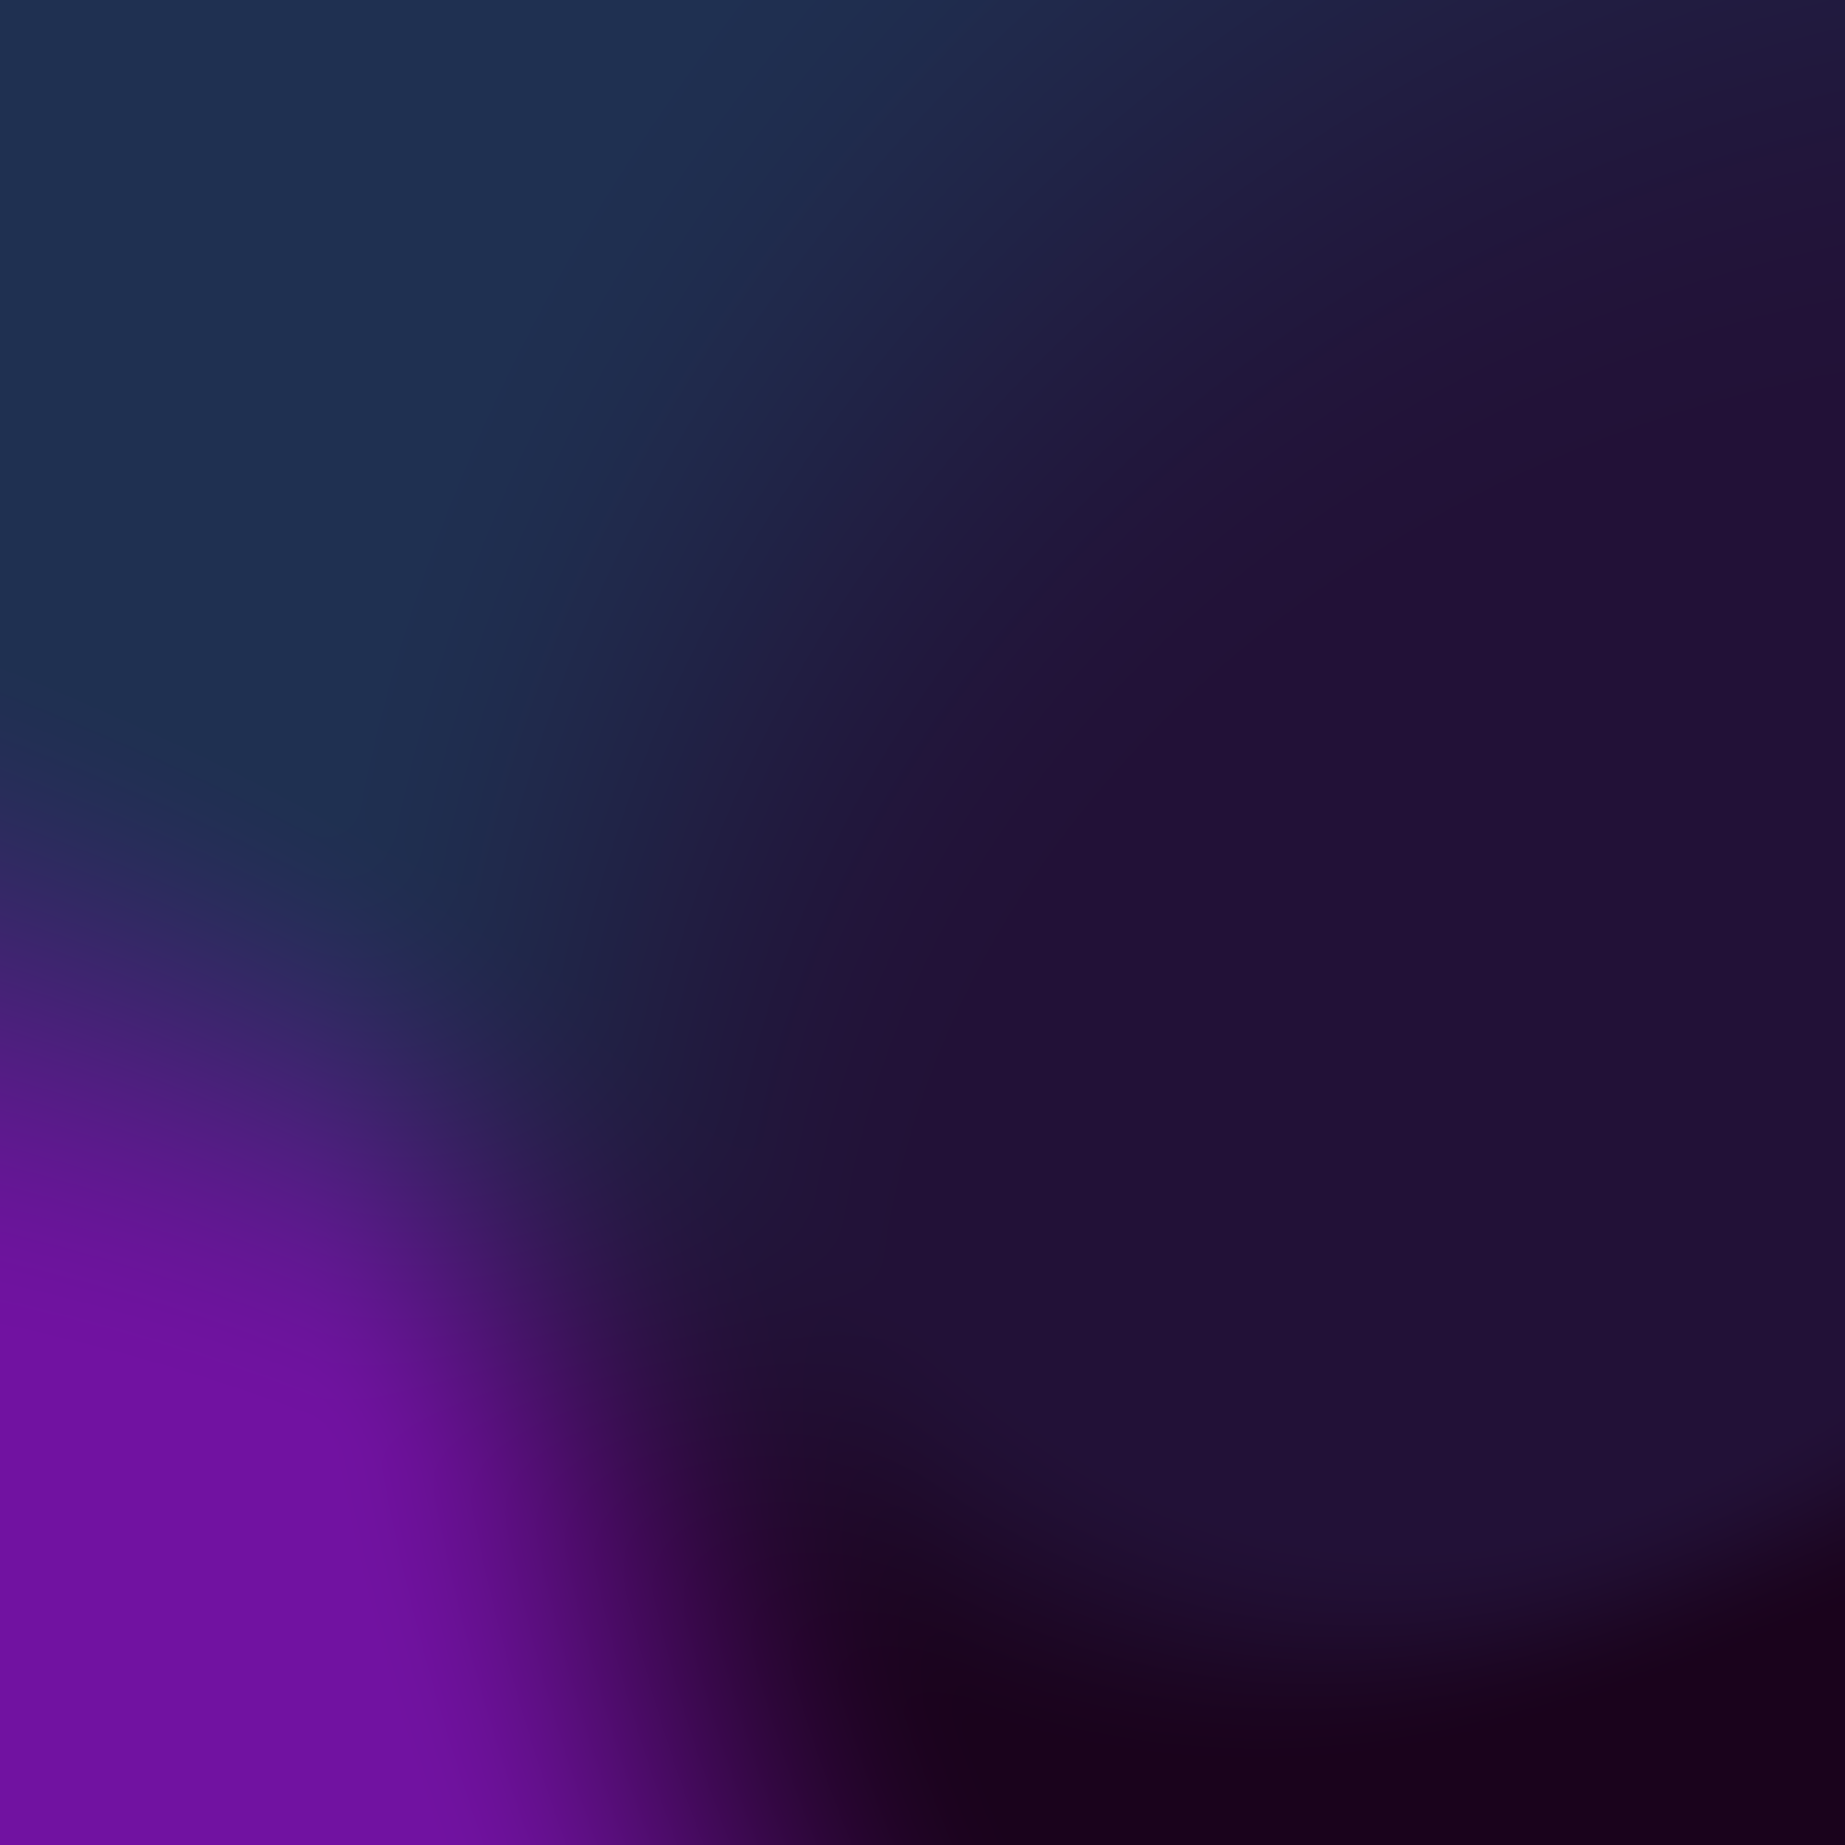
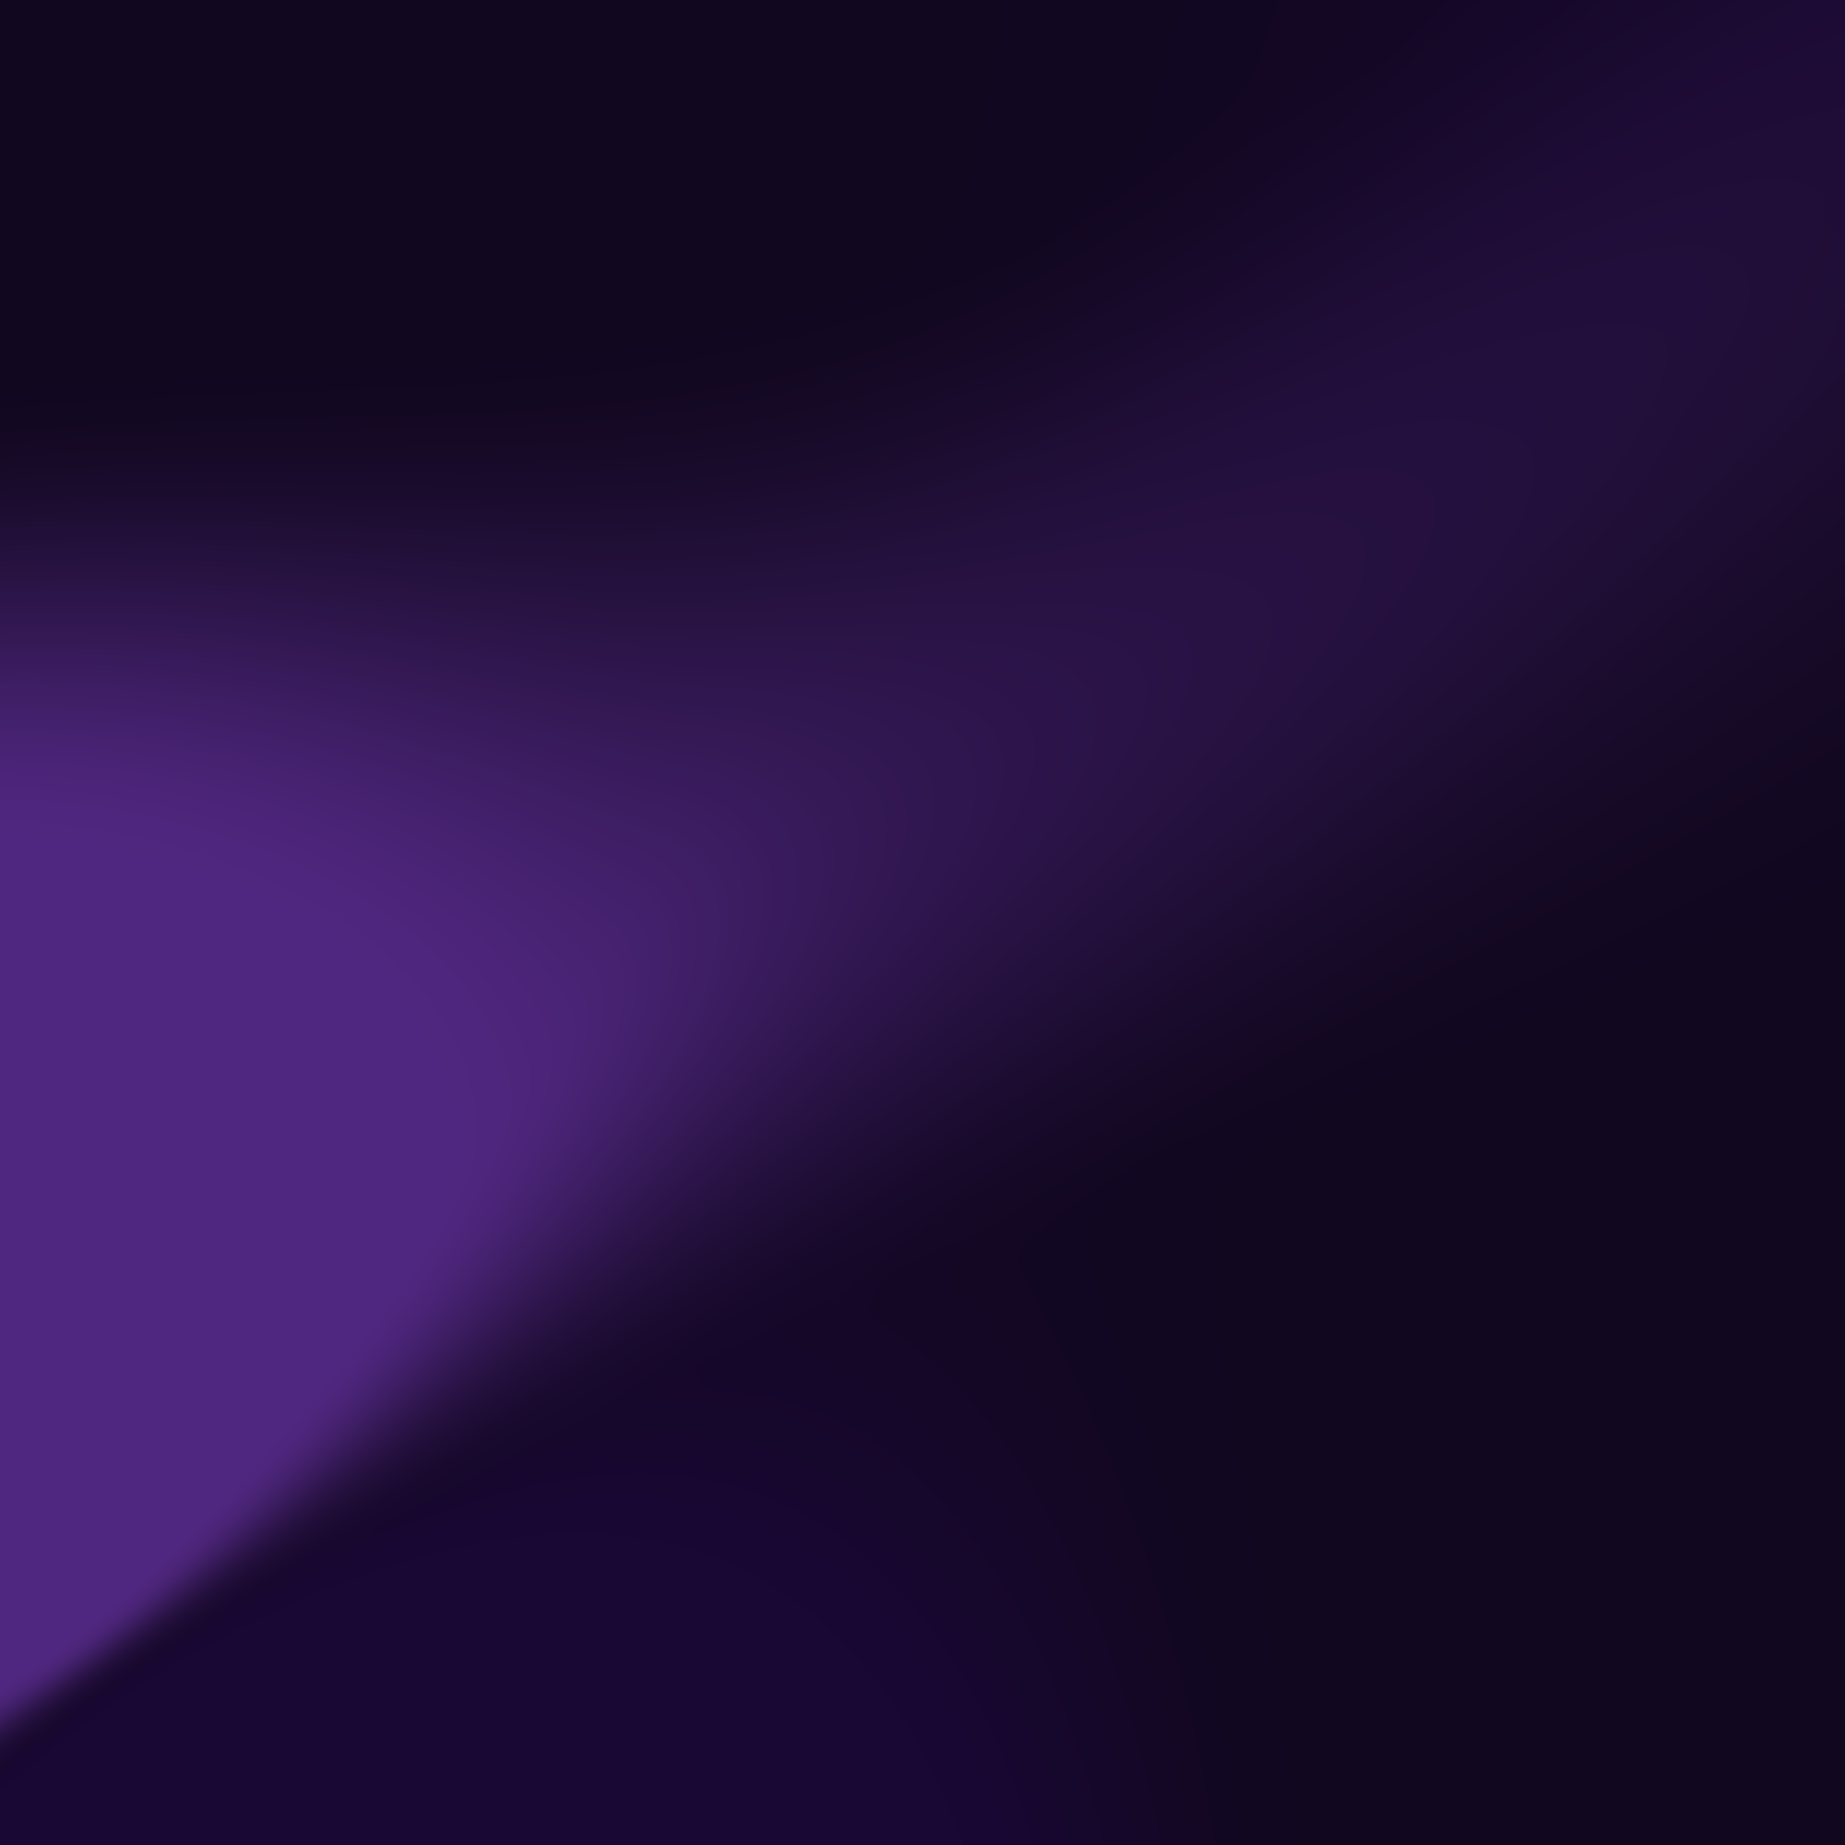
rm

diff --git a/scss/section2.scss b/scss/section2.scss
@@ -4,8 +4,8 @@
 
     display: flex;
     justify-content: center;
-    background: radial-gradient(20% 50% at center, #763CAC 0%, rgba(50, 15, 133, 0) 100%) , 
-    center center/auto 50% no-repeat;
+    
+
 
     .container_div_exp
     {
@@ -13,45 +13,108 @@
         width: 80%;
         color: white;
         font-family: Preahvihear;
+        
 
-        .exp_div_container
+
+        .main_container
         {
-            display: grid;
-            grid-template-columns: auto auto;
-            
-            .exp_div_div1
-            {
-                border-radius: 15px;
-                height: 168.06px;
-                margin: 0.5vw 1vw;
-            
-            }
 
-            .div_1
-            {
-                background: radial-gradient(ellipse at 125% 125%,#502780, #11071F);
-                box-shadow: -20px 5px 1px rgba(0, 0, 0, 0.9);
-            }
-            .div_2 
-            {
-                background: radial-gradient(ellipse at 0% 125%,#502780, #11071F);
-                box-shadow: 20px 5px 1px rgba(0, 0, 0, 0.9);
+            background: radial-gradient(10% 35% at center, #763CAC 0%, rgba(50, 15, 133, 0) 100%) , 
+            center center/auto 50% no-repeat;
 
-            }
-
-            .div_3
+        
+                .exp_div_container
             {
-                background: radial-gradient(ellipse at 125% 0%,#502780, #11071F);
-                box-shadow: -20px 5px 1px rgba(0, 0, 0, 0.9);
-            }
 
-            .div_4
-            {
-                background: radial-gradient(ellipse at 0% 0%,#502780, #11071F);
-                box-shadow: 20px 5px 1px rgba(0, 0, 0, 0.9);
-            }
-    }
+                display: grid;
+                grid-template-columns:1fr 1fr;
 
+                .bg_fordiv
+                {
+                    background-color:hsla(265,63%,7%,1);
+                }
+                
+                .exp_div_div1
+                {
+                    border-radius: 15px;
+                    height: 168.06px;
+                    margin: 1vw 1vw;
+                    display: flex;
+                    justify-content: center;
+                    align-items: center;
+                    
+
+                    p
+                    {
+                        
+                        font-size: 0.7rem;
+
+                    }
+
+                    div 
+                    {
+                        display: inline-block;
+                        margin-left: 3%;
+                    }
+                    button
+                    {
+                        background-color: #2C1250;
+                        border: none;
+                        height: 1.5rem;
+                        border-radius: 1rem;
+                        
+                        a 
+                        {
+                            text-decoration: none;
+                            color: white;
+                            font-family: Preahvihear;
+                        }
+                    }
+                
+                }
+
+                .div_1
+                {
+                    background-image:
+                    radial-gradient(at 0% 0%, hsla(254,48%,25%,0.69) 0px, transparent 50%),
+                    radial-gradient(at 100% 100%, hsla(266,53%,32%,1) 0px, transparent 50%),
+                    radial-gradient(at 100% 40%, hsla(266,53%,32%,0.35) 0px, transparent 50%);
+                    @extend .bg_fordiv ;
+                }
+                .div_2 
+                {
+                    background-image:
+                    radial-gradient(at 100% 0%, hsla(254,48%,25%,0.69) 0px, transparent 50%),
+                    radial-gradient(at 0% 100%, hsla(266,53%,32%,1) 0px, transparent 50%),
+                    radial-gradient(at 0% 35%, hsla(266,53%,32%,0.35) 0px, transparent 50%);
+                    @extend .bg_fordiv ;
+                }
+
+                .div_3
+                {
+                    background-image:
+                    radial-gradient(at 0% 98%, hsla(254,48%,25%,0.69) 0px, transparent 50%),
+                    radial-gradient(at 99% 0%, hsla(266,53%,32%,1) 0px, transparent 50%),
+                    radial-gradient(at 100% 59%, hsla(266,53%,32%,0.35) 0px, transparent 50%);
+                    @extend .bg_fordiv ;
+                }
+
+                .div_4
+                {
+                    background-color:hsla(265,63%,7%,1);
+                    background-image:
+                    radial-gradient(at 100% 100%, hsla(254,48%,25%,0.69) 0px, transparent 50%),
+                    radial-gradient(at 0% 1%, hsla(266,53%,32%,1) 0px, transparent 50%),
+                    radial-gradient(at 0% 65%, hsla(266,53%,32%,0.35) 0px, transparent 50%);
+                    @extend .bg_fordiv ;
+                }
+        }
+
+
+        }
+
+        
+        
 }
   
   

diff --git a/scss/section2.css b/scss/section2.css
@@ -1,35 +1,58 @@
 .exp_section {
   display: flex;
   justify-content: center;
-  background: radial-gradient(20% 50% at center, #763CAC 0%, rgba(50, 15, 133, 0) 100%), center center/auto 50% no-repeat;
 }
 .exp_section .container_div_exp {
   width: 80%;
   color: white;
   font-family: Preahvihear;
 }
-.exp_section .container_div_exp .exp_div_container {
-  display: grid;
-  grid-template-columns: auto auto;
+.exp_section .container_div_exp .main_container {
+  background: radial-gradient(10% 35% at center, #763CAC 0%, rgba(50, 15, 133, 0) 100%), center center/auto 50% no-repeat;
 }
-.exp_section .container_div_exp .exp_div_container .exp_div_div1 {
+.exp_section .container_div_exp .main_container .exp_div_container {
+  display: grid;
+  grid-template-columns: 1fr 1fr;
+}
+.exp_section .container_div_exp .main_container .exp_div_container .bg_fordiv, .exp_section .container_div_exp .main_container .exp_div_container .div_4, .exp_section .container_div_exp .main_container .exp_div_container .div_3, .exp_section .container_div_exp .main_container .exp_div_container .div_2, .exp_section .container_div_exp .main_container .exp_div_container .div_1 {
+  background-color: hsl(265, 63%, 7%);
+}
+.exp_section .container_div_exp .main_container .exp_div_container .exp_div_div1 {
   border-radius: 15px;
   height: 168.06px;
-  margin: 0.5vw 1vw;
+  margin: 1vw 1vw;
+  display: flex;
+  justify-content: center;
+  align-items: center;
 }
-.exp_section .container_div_exp .exp_div_container .div_1 {
-  background: radial-gradient(ellipse at 125% 125%, #502780, #11071F);
-  box-shadow: -20px 5px 1px rgba(0, 0, 0, 0.9);
+.exp_section .container_div_exp .main_container .exp_div_container .exp_div_div1 p {
+  font-size: 0.7rem;
 }
-.exp_section .container_div_exp .exp_div_container .div_2 {
-  background: radial-gradient(ellipse at 0% 125%, #502780, #11071F);
-  box-shadow: 20px 5px 1px rgba(0, 0, 0, 0.9);
+.exp_section .container_div_exp .main_container .exp_div_container .exp_div_div1 div {
+  display: inline-block;
+  margin-left: 3%;
 }
-.exp_section .container_div_exp .exp_div_container .div_3 {
-  background: radial-gradient(ellipse at 125% 0%, #502780, #11071F);
-  box-shadow: -20px 5px 1px rgba(0, 0, 0, 0.9);
+.exp_section .container_div_exp .main_container .exp_div_container .exp_div_div1 button {
+  background-color: #2C1250;
+  border: none;
+  height: 1.5rem;
+  border-radius: 1rem;
 }
-.exp_section .container_div_exp .exp_div_container .div_4 {
-  background: radial-gradient(ellipse at 0% 0%, #502780, #11071F);
-  box-shadow: 20px 5px 1px rgba(0, 0, 0, 0.9);
+.exp_section .container_div_exp .main_container .exp_div_container .exp_div_div1 button a {
+  text-decoration: none;
+  color: white;
+  font-family: Preahvihear;
+}
+.exp_section .container_div_exp .main_container .exp_div_container .div_1 {
+  background-image: radial-gradient(at 0% 0%, hsla(254, 48%, 25%, 0.69) 0px, transparent 50%), radial-gradient(at 100% 100%, hsl(266, 53%, 32%) 0px, transparent 50%), radial-gradient(at 100% 40%, hsla(266, 53%, 32%, 0.35) 0px, transparent 50%);
+}
+.exp_section .container_div_exp .main_container .exp_div_container .div_2 {
+  background-image: radial-gradient(at 100% 0%, hsla(254, 48%, 25%, 0.69) 0px, transparent 50%), radial-gradient(at 0% 100%, hsl(266, 53%, 32%) 0px, transparent 50%), radial-gradient(at 0% 35%, hsla(266, 53%, 32%, 0.35) 0px, transparent 50%);
+}
+.exp_section .container_div_exp .main_container .exp_div_container .div_3 {
+  background-image: radial-gradient(at 0% 98%, hsla(254, 48%, 25%, 0.69) 0px, transparent 50%), radial-gradient(at 99% 0%, hsl(266, 53%, 32%) 0px, transparent 50%), radial-gradient(at 100% 59%, hsla(266, 53%, 32%, 0.35) 0px, transparent 50%);
+}
+.exp_section .container_div_exp .main_container .exp_div_container .div_4 {
+  background-color: hsl(265, 63%, 7%);
+  background-image: radial-gradient(at 100% 100%, hsla(254, 48%, 25%, 0.69) 0px, transparent 50%), radial-gradient(at 0% 1%, hsl(266, 53%, 32%) 0px, transparent 50%), radial-gradient(at 0% 65%, hsla(266, 53%, 32%, 0.35) 0px, transparent 50%);
 }/*# sourceMappingURL=section2.css.map */

diff --git a/components/section2.html b/components/section2.html
@@ -2,13 +2,43 @@
 
     <div class="container_div_exp">
         <h1>Work Experience</h1>
-        <div class="exp_div_container">
-            <div class="exp_div_div1 div_1">1</div>
-            <div class="exp_div_div1 div_2">2</div>
-        </div>
-        <div class="exp_div_container" >
-            <div class="exp_div_div1 div_3">3</div>
-            <div class="exp_div_div1 div_4">4</div>
+        <div class="main_container">
+            <div class="exp_div_container">
+                <div class="exp_div_div1 div_1">
+                    <img src="../imgs/Rectangle.png" alt="">
+                    <div>
+                        <h1>CIB on the Mobile</h1>
+                        <p>Take your client onboard seamlessly by our amazing<br/>tool of digital onboard process.<br/></p>
+                        <button><a href="">LEARN MORE</a></button>
+                    </div>
+                </div>
+                <div class="exp_div_div1 div_2">
+                    <img src="../imgs/Rectangle (1).png" alt="">
+                    <div>
+                        <h1>CIB on the Mobile</h1>
+                        <p>Take your client onboard seamlessly by our amazing<br/>tool of digital onboard process.<br/></p>
+                        <button><a href="">LEARN MORE</a></button>
+                    </div>
+                </div>
+            </div>
+            <div class="exp_div_container" >
+                <div class="exp_div_div1 div_3">
+                    <img src="../imgs/Rectangle (2).png" alt="">
+                    <div>
+                        <h1>CIB on the Mobile</h1>
+                        <p>Take your client onboard seamlessly by our amazing<br/>tool of digital onboard process.<br/></p>
+                        <button><a href="">LEARN MORE</a></button>
+                    </div>
+                </div>
+                <div class="exp_div_div1 div_4">
+                    <img src="../imgs/Rectangle (3).png" alt="">
+                    <div>
+                        <h1>CIB on the Mobile</h1>
+                        <p>Take your client onboard seamlessly by our amazing<br/>tool of digital onboard process.<br/></p>
+                        <button><a href="">LEARN MORE</a></button>
+                    </div>
+                </div>
+            </div>
         </div>
     </div>
 

diff --git a/scss/section1.scss b/scss/section1.scss
@@ -19,7 +19,7 @@
             display: flex;
             align-items: center;
             position: absolute;
-            @include doublexl
+            @include xxl
             {
                 top: -6%;
                 left: 29%;
@@ -61,8 +61,11 @@
         {
             width: 17vw;
             height: 22vw;
-            background: radial-gradient(48% 48% at center, #763CAC 0%, rgba(50, 15, 133, 0) 100%) , 
-            url('../imgs/Ellipse 3.png') center center/auto 50% no-repeat;
+
+            background-image:
+            radial-gradient(at 48% 46%, hsla(30,78%,61%,0.57) 0px, transparent 50%),
+            radial-gradient(at 49% 47%, hsla(240,100%,70%,1) 0px, transparent 50%),
+            radial-gradient(at 49% 47%, hsla(343,100%,76%,0.52) 0px, transparent 50%);
             display: flex;
             justify-content: center;
             align-items: center;

diff --git a/scss/section1.css b/scss/section1.css
@@ -20,7 +20,7 @@
     left: 29%;
   }
 }
-@media (max-width: 1500px) {
+@media (max-width: 1200px) {
   .pof_sec1 .div_sec1 .Iam_ {
     top: -14%;
     left: 32%;
@@ -46,7 +46,7 @@
 .pof_sec1 .div_sec1 .img1_div {
   width: 17vw;
   height: 22vw;
-  background: radial-gradient(48% 48% at center, #763CAC 0%, rgba(50, 15, 133, 0) 100%), url("../imgs/Ellipse 3.png") center center/auto 50% no-repeat;
+  background-image: radial-gradient(at 48% 46%, hsla(30, 78%, 61%, 0.57) 0px, transparent 50%), radial-gradient(at 49% 47%, hsl(240, 100%, 70%) 0px, transparent 50%), radial-gradient(at 49% 47%, hsla(343, 100%, 76%, 0.52) 0px, transparent 50%);
   display: flex;
   justify-content: center;
   align-items: center;

diff --git a/scss/breackpoint.scss b/scss/breackpoint.scss
@@ -1,7 +1,15 @@
-$breakpoints: ("xs": 0, "sm": 480px, "md": 905px, "lg": 1103px, "xl": 1500px, "2xl": 1500px);
+$breakpoints: (
+  xs: 0,
+  sm: 576px,
+  md: 768px,
+  lg: 992px,
+  xl: 1200px,
+  xxl: 1500px
+);
 
-@mixin doublexl {
-  @media (min-width: map-get($breakpoints, '2xl')) {
+
+@mixin xxl {
+  @media (min-width: map-get($breakpoints, 'xxl')) {
     @content;
     
   }
@@ -26,6 +34,12 @@ $breakpoints: ("xs": 0, "sm": 480px, "md": 905px, "lg": 1103px, "xl": 1500px, "2
 }
 
 @mixin sm {
+  @media (max-width: map-get($breakpoints, 'sm')) {
+    @content;
+  }
+}
+
+@mixin xs {
   @media (max-width: map-get($breakpoints, 'sm')) {
     @content;
   }

diff --git a/index.html b/index.html
@@ -40,7 +40,6 @@
     includeHTML('./components/nav.html');
     includeHTML('./components/section1.html');
     includeHTML('./components/section2.html');
-    includeHTML('./components/salah.html');
 </script>
     
 

diff --git a/components/section1.html b/components/section1.html
@@ -5,7 +5,6 @@
              <p>
                  Hello! I Am <span>ABDELLATIF HOUR</span>
              </p>
-             
          </div>
 
          <div class='img1_div'>
